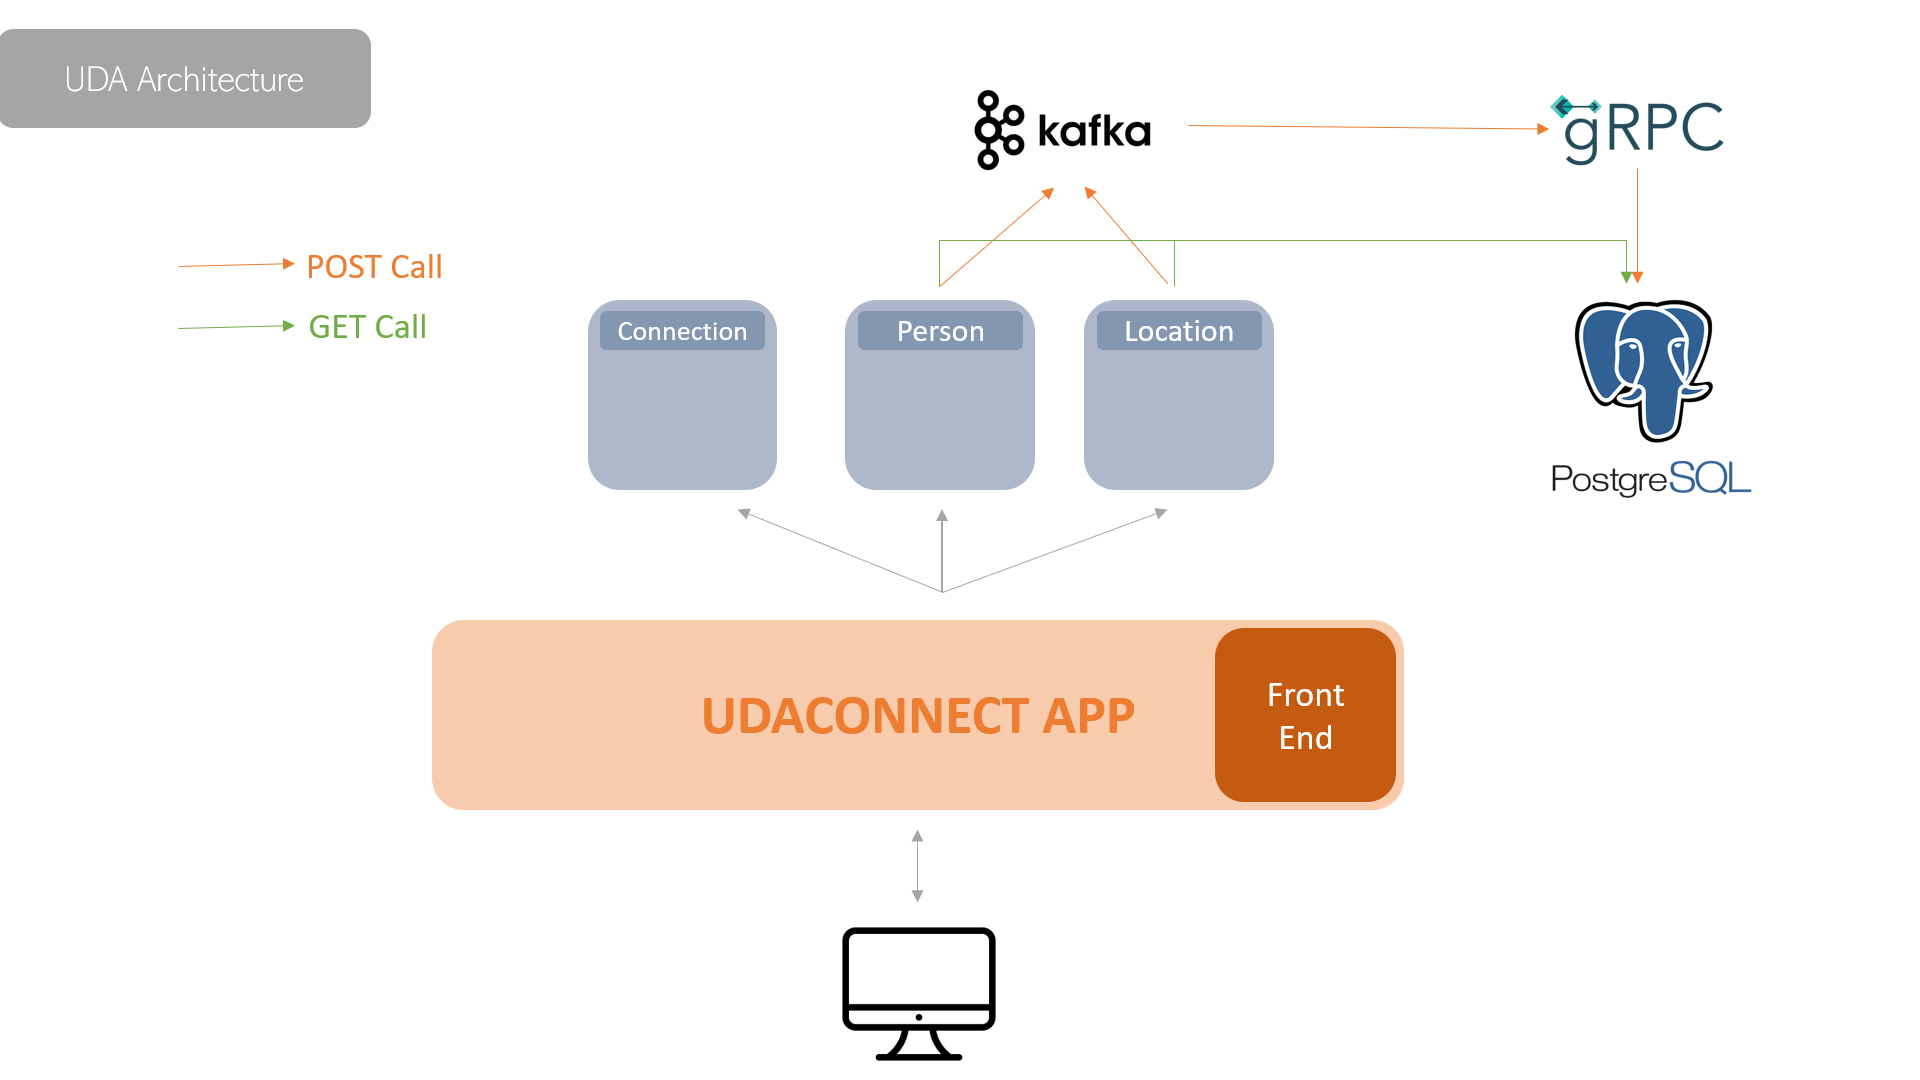
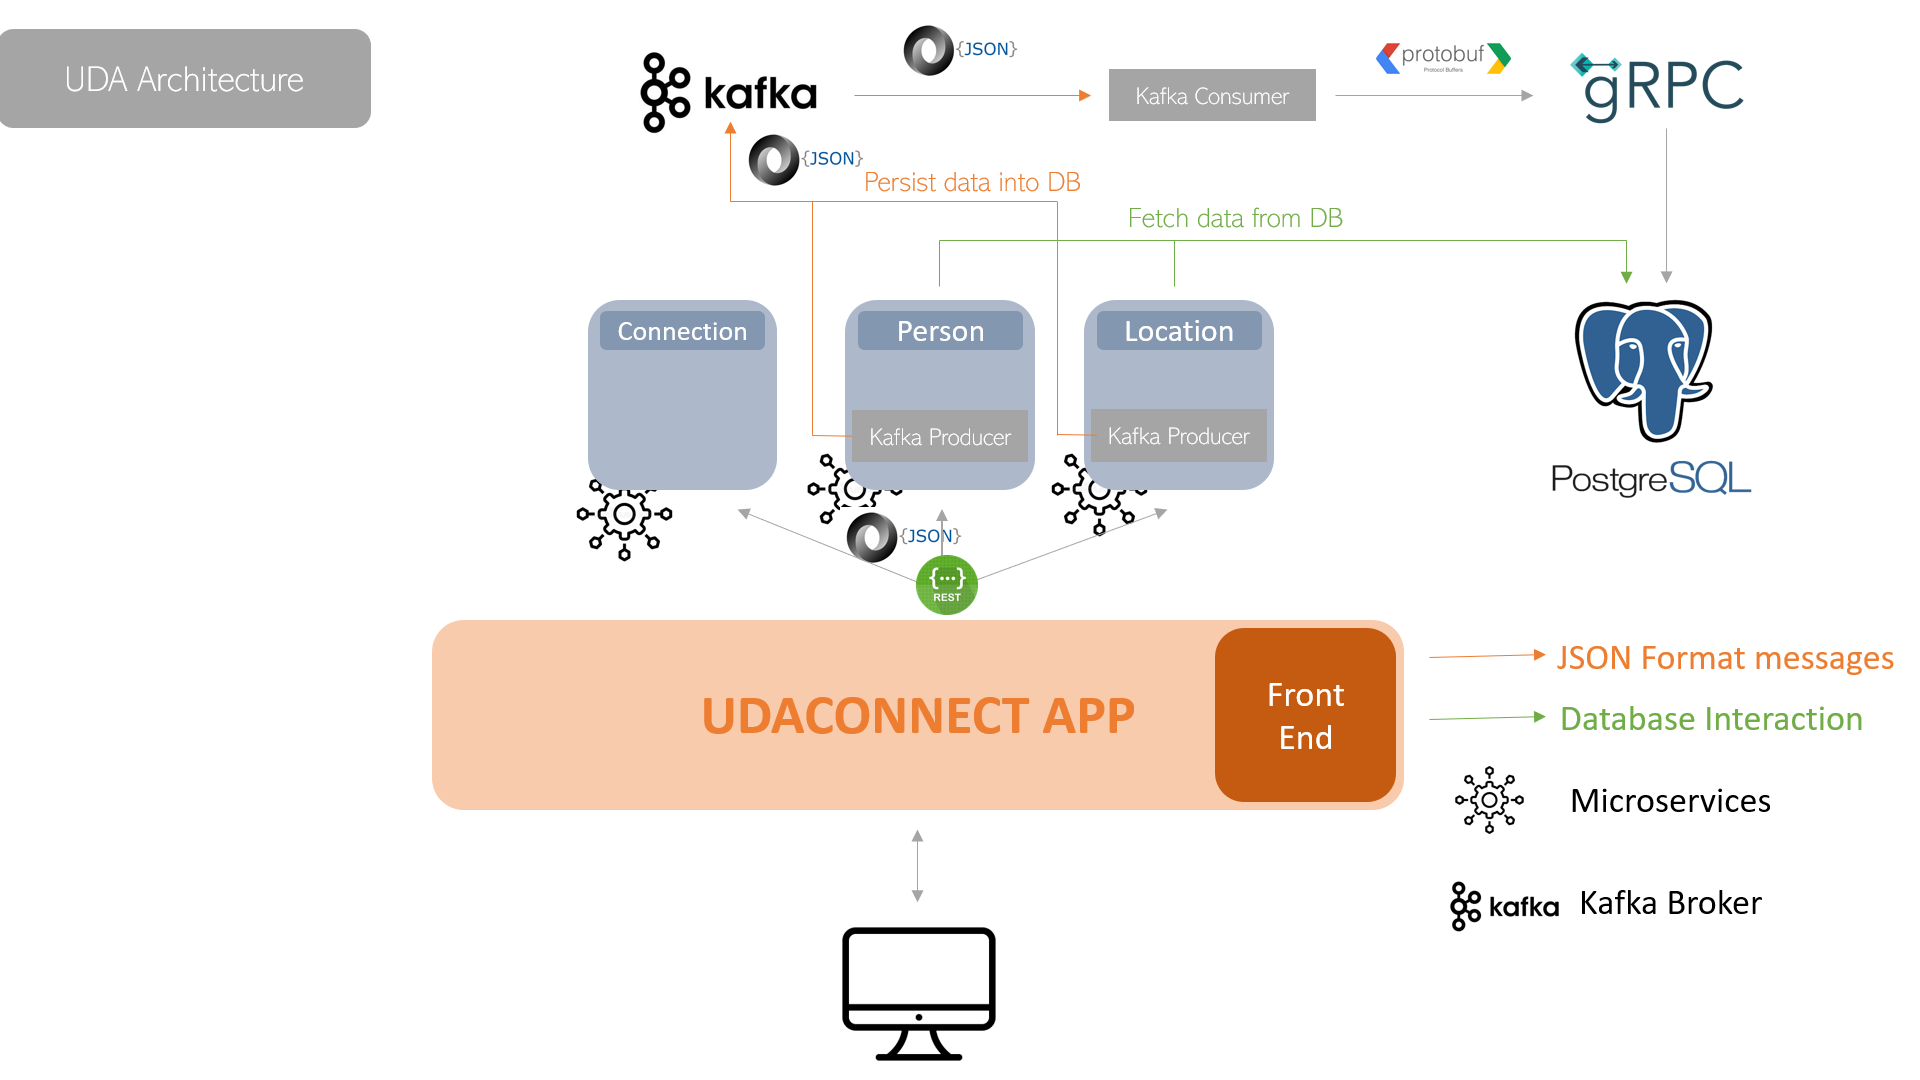
Added Kafka & GRPC logically

diff --git a/README.md b/README.md
@@ -17,12 +17,12 @@ python grpc/server.py
 
 ```
 
-## Steps for running Kafka
+## Steps for running Kafka Broker
 ```s
 docker pull spotify/kafka
 docker run --ti -p 2181:2181 -p 9092:9092 --env ADVERTISED_HOST=kafka --env ADVERTISED_PORT=9092 spotify/kafka
 ```
-## Steps for running Kafka Listener
+## Steps for running Kafka Consumer
 ```s
 docker build -t kafka-listener kafka/
 docker run -d --name kafka-listener
